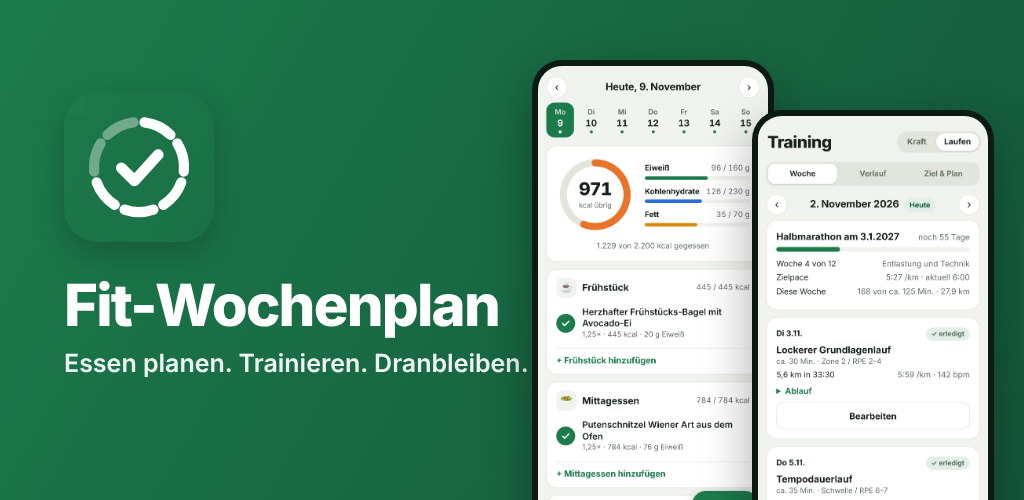
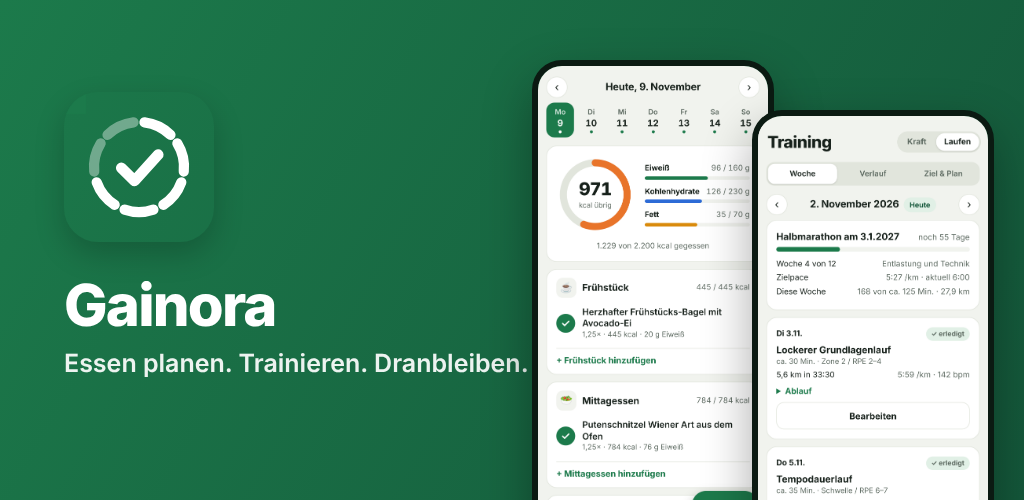
App heißt jetzt Gainora; Anbieterangaben für Impressum und Datenschutz
- Name in App, Manifest, Store-Texten und Feature-Grafik
- App-Kennung de.preikschas.gainora
- Impressum und Datenschutz mit Anbieterangaben

Claude-Session: https://claude.ai/code/session_01XA2jUVCa9GARMxRAzQ4fZa

Changed region(s): [[0.0625, 0.57, 0.5, 0.69]]

diff --git a/essensplan.html b/essensplan.html
@@ -4,7 +4,7 @@
 <meta charset="utf-8">
 <meta name="viewport" content="width=device-width,initial-scale=1,viewport-fit=cover">
 <meta name="theme-color" content="#1c7a4b">
-<title>Fit-Wochenplan</title>
+<title>Gainora</title>
 <link rel="manifest" href="manifest.json">
 <meta name="mobile-web-app-capable" content="yes">
 <meta name="apple-mobile-web-app-capable" content="yes">
@@ -391,8 +391,8 @@ if(typeof RDB!=="undefined"&&typeof FOODS_NEU!=="undefined")(function(){
 const fitsSlot=(m,s)=>m.c==s||(m.x&&m.x.indexOf(s)>=0);
 const PUBLIC_V="3.3";
 /* Anbieter für Impressum und Datenschutz – vor der Veröffentlichung ausfüllen */
-const ANBIETER={name:"",anschrift:"",mail:""};
-const RECHT={"ds": "<h2>Datenschutzerklärung</h2>\n<p><b>Stand:</b> 9. November 2026</p>\n<h3>1. Verantwortlicher</h3>\n<p>{name}<br>{anschrift}<br>E-Mail: {mail}</p>\n<h3>2. Grundsatz: Deine Daten bleiben auf deinem Gerät</h3>\n<p>Fit-Wochenplan funktioniert ohne Benutzerkonto und ohne eigenen Server. Alles, was du einträgst – Essensplan, Mahlzeiten, Gewicht, Trainings, Läufe, Supplements, Ziele und Einstellungen – wird ausschließlich lokal im Speicher der App auf deinem Gerät abgelegt. Wir erhalten diese Daten nicht und können sie nicht einsehen.</p>\n<p>Die App enthält keine Werbung, keine Analyse- oder Tracking-Werkzeuge und gibt keine Daten zu Werbezwecken weiter.</p>\n<p>Angaben wie Körpergewicht, Ernährung und Trainingsdaten können Gesundheitsdaten sein. Sie werden nur auf deinem Gerät verarbeitet, um dir die Funktionen der App bereitzustellen.</p>\n<h3>3. Funktionen mit Internetverbindung</h3>\n<p>Nur die folgenden Funktionen nehmen Verbindung zu Diensten Dritter auf, und zwar nur, wenn du sie selbst auslöst:</p>\n<p><b>Foto-Analyse (optional):</b> Wenn du unter „Foto-Analyse“ einen eigenen Schlüssel für die Google Gemini API hinterlegst und ein Foto analysieren lässt, wird das Foto zusammen mit einer Anweisung direkt von deinem Gerät an Google gesendet (Google Ireland Limited, Gordon House, Barrow Street, Dublin 4, Irland; Verarbeitung auch in den USA möglich). Google verarbeitet die Daten nach den Bedingungen, die du mit Google für deinen Schlüssel vereinbart hast. Dein Schlüssel wird nur auf deinem Gerät gespeichert und nicht in Sicherungsdateien übernommen. Rechtsgrundlage ist deine Einwilligung (Art. 6 Abs. 1 lit. a, Art. 9 Abs. 2 lit. a DSGVO), die du jederzeit widerrufen kannst, indem du den Schlüssel löschst.</p>\n<p><b>Barcode-Suche:</b> Wenn du einen Barcode scannst oder eingibst, wird die Produktnummer an Open Food Facts gesendet (Open Food Facts, 21 rue des Iles, 94100 Saint-Maur-des-Fossés, Frankreich), um Nährwerte abzurufen. Dabei wird technisch bedingt deine IP-Adresse übertragen. Rechtsgrundlage ist Art. 6 Abs. 1 lit. b DSGVO (Bereitstellung der von dir gewünschten Funktion).</p>\n<p><b>Webversion:</b> Wenn du die App im Browser nutzt, wird sie über GitHub Pages ausgeliefert (GitHub B.V., Niederlande / GitHub, Inc., USA). Dabei verarbeitet GitHub technisch notwendige Zugriffsdaten wie die IP-Adresse. Rechtsgrundlage ist Art. 6 Abs. 1 lit. f DSGVO (sichere Bereitstellung der Webseite).</p>\n<h3>4. Berechtigungen</h3>\n<p><b>Kamera:</b> nur zum Scannen von Barcodes und für Fotos zur Foto-Analyse, jeweils erst wenn du die Funktion startest. <b>Benachrichtigungen:</b> nur für die lokale Erinnerung am Ende einer Satzpause; sie werden auf dem Gerät erzeugt, nicht über einen Server.</p>\n<h3>5. Sicherungen und Diagnoseprotokoll</h3>\n<p>Sicherungsdateien und das Diagnoseprotokoll entstehen nur, wenn du sie selbst erstellst. Wohin du sie speicherst oder sendest, entscheidest du. Das Diagnoseprotokoll enthält technische Angaben zur Fehlersuche (z. B. App-Version, Gerätetyp, Fehlermeldungen) und bleibt auf deinem Gerät, bis du es teilst.</p>\n<h3>6. Speicherdauer und Löschung</h3>\n<p>Die Daten bleiben gespeichert, bis du sie in der App unter „Daten & Sicherung“ löschst oder die App deinstallierst.</p>\n<h3>7. Deine Rechte</h3>\n<p>Du hast das Recht auf Auskunft, Berichtigung, Löschung, Einschränkung der Verarbeitung, Datenübertragbarkeit sowie Widerspruch und Widerruf erteilter Einwilligungen (Art. 15–21 DSGVO). Da wir deine App-Daten nicht speichern, kannst du die meisten Rechte direkt in der App ausüben. Außerdem kannst du dich bei einer Datenschutz-Aufsichtsbehörde beschweren, zum Beispiel bei der Behörde deines Wohnorts.</p>\n<h3>8. Kinder</h3>\n<p>Die App richtet sich nicht an Kinder unter 16 Jahren.</p>\n<h3>9. Änderungen</h3>\n<p>Wir passen diese Erklärung an, wenn sich die App oder die Rechtslage ändert. Es gilt die jeweils in der App veröffentlichte Fassung.</p>", "imp": "<h2>Impressum</h2>\n<p>Angaben gemäß § 5 Digitale-Dienste-Gesetz (DDG)</p>\n<p>{name}<br>{anschrift}</p>\n<p><b>Kontakt:</b> E-Mail: {mail}</p>\n<p><b>Verantwortlich für den Inhalt:</b> {name}, Anschrift wie oben</p>", "ges": "<h2>Gesundheitshinweis</h2>\n<p>Fit-Wochenplan ist ein Hilfsmittel zur Planung von Ernährung und Training. Die App ist kein Medizinprodukt und ersetzt keine ärztliche, ernährungsmedizinische oder sportmedizinische Beratung.</p>\n<p>Kalorienbedarf, Nährwerte, Portionsgrößen, Supplementmengen, Trainings- und Laufpläne sind Richtwerte und Vorlagen. Sie berücksichtigen keine Erkrankungen, Medikamente, Schwangerschaft oder individuelle Belastbarkeit. Die Bedarfsberechnung ist eine Schätzung (Mifflin-St.-Jeor-Formel). Foto-Analysen und Produktdaten aus Open Food Facts können ungenau sein.</p>\n<p>Sprich vor einer deutlichen Ernährungsumstellung, vor Nahrungsergänzungsmitteln und vor dem Beginn eines intensiven Trainings mit einer Ärztin oder einem Arzt, besonders bei Vorerkrankungen. Brich das Training bei Schmerzen, Schwindel oder Atemnot ab.</p>", "liz": "<h2>Quellen und Lizenzen</h2>\n<p><b>Produktdaten:</b> Barcode-Suche mit Daten von <a href=\"https://world.openfoodfacts.org\">Open Food Facts</a>. Die Datenbank steht unter der Open Database License (ODbL), die Inhalte unter der Database Contents License.</p>\n<p><b>Foto-Analyse:</b> Google Gemini API, nur mit deinem eigenen Schlüssel.</p>\n<p><b>Rezepte, Lebensmittel, Übungen, Trainings- und Laufpläne:</b> eigene Zusammenstellung für Fit-Wochenplan. Die Nährwerte sind aus den Zutaten berechnet.</p>\n<p><b>Spiele:</b> „Blocksturz“ und die übrigen Pausenspiele sind eigene Umsetzungen.</p>"};
+const ANBIETER={name:"Luca Preikschas",anschrift:"Herzog-Wilhelm-Str. 32, 94572 Schöfweg",mail:"gainora.app@gmail.com"};
+const RECHT={"ds": "<h2>Datenschutzerklärung</h2>\n<p><b>Stand:</b> 9. November 2026</p>\n<h3>1. Verantwortlicher</h3>\n<p>{name}<br>{anschrift}<br>E-Mail: {mail}</p>\n<h3>2. Grundsatz: Deine Daten bleiben auf deinem Gerät</h3>\n<p>Gainora funktioniert ohne Benutzerkonto und ohne eigenen Server. Alles, was du einträgst – Essensplan, Mahlzeiten, Gewicht, Trainings, Läufe, Supplements, Ziele und Einstellungen – wird ausschließlich lokal im Speicher der App auf deinem Gerät abgelegt. Wir erhalten diese Daten nicht und können sie nicht einsehen.</p>\n<p>Die App enthält keine Werbung, keine Analyse- oder Tracking-Werkzeuge und gibt keine Daten zu Werbezwecken weiter.</p>\n<p>Angaben wie Körpergewicht, Ernährung und Trainingsdaten können Gesundheitsdaten sein. Sie werden nur auf deinem Gerät verarbeitet, um dir die Funktionen der App bereitzustellen.</p>\n<h3>3. Funktionen mit Internetverbindung</h3>\n<p>Nur die folgenden Funktionen nehmen Verbindung zu Diensten Dritter auf, und zwar nur, wenn du sie selbst auslöst:</p>\n<p><b>Foto-Analyse (optional):</b> Wenn du unter „Foto-Analyse“ einen eigenen Schlüssel für die Google Gemini API hinterlegst und ein Foto analysieren lässt, wird das Foto zusammen mit einer Anweisung direkt von deinem Gerät an Google gesendet (Google Ireland Limited, Gordon House, Barrow Street, Dublin 4, Irland; Verarbeitung auch in den USA möglich). Google verarbeitet die Daten nach den Bedingungen, die du mit Google für deinen Schlüssel vereinbart hast. Dein Schlüssel wird nur auf deinem Gerät gespeichert und nicht in Sicherungsdateien übernommen. Rechtsgrundlage ist deine Einwilligung (Art. 6 Abs. 1 lit. a, Art. 9 Abs. 2 lit. a DSGVO), die du jederzeit widerrufen kannst, indem du den Schlüssel löschst.</p>\n<p><b>Barcode-Suche:</b> Wenn du einen Barcode scannst oder eingibst, wird die Produktnummer an Open Food Facts gesendet (Open Food Facts, 21 rue des Iles, 94100 Saint-Maur-des-Fossés, Frankreich), um Nährwerte abzurufen. Dabei wird technisch bedingt deine IP-Adresse übertragen. Rechtsgrundlage ist Art. 6 Abs. 1 lit. b DSGVO (Bereitstellung der von dir gewünschten Funktion).</p>\n<p><b>Webversion:</b> Wenn du die App im Browser nutzt, wird sie über GitHub Pages ausgeliefert (GitHub B.V., Niederlande / GitHub, Inc., USA). Dabei verarbeitet GitHub technisch notwendige Zugriffsdaten wie die IP-Adresse. Rechtsgrundlage ist Art. 6 Abs. 1 lit. f DSGVO (sichere Bereitstellung der Webseite).</p>\n<h3>4. Berechtigungen</h3>\n<p><b>Kamera:</b> nur zum Scannen von Barcodes und für Fotos zur Foto-Analyse, jeweils erst wenn du die Funktion startest. <b>Benachrichtigungen:</b> nur für die lokale Erinnerung am Ende einer Satzpause; sie werden auf dem Gerät erzeugt, nicht über einen Server.</p>\n<h3>5. Sicherungen und Diagnoseprotokoll</h3>\n<p>Sicherungsdateien und das Diagnoseprotokoll entstehen nur, wenn du sie selbst erstellst. Wohin du sie speicherst oder sendest, entscheidest du. Das Diagnoseprotokoll enthält technische Angaben zur Fehlersuche (z. B. App-Version, Gerätetyp, Fehlermeldungen) und bleibt auf deinem Gerät, bis du es teilst.</p>\n<h3>6. Speicherdauer und Löschung</h3>\n<p>Die Daten bleiben gespeichert, bis du sie in der App unter „Daten & Sicherung“ löschst oder die App deinstallierst.</p>\n<h3>7. Deine Rechte</h3>\n<p>Du hast das Recht auf Auskunft, Berichtigung, Löschung, Einschränkung der Verarbeitung, Datenübertragbarkeit sowie Widerspruch und Widerruf erteilter Einwilligungen (Art. 15–21 DSGVO). Da wir deine App-Daten nicht speichern, kannst du die meisten Rechte direkt in der App ausüben. Außerdem kannst du dich bei einer Datenschutz-Aufsichtsbehörde beschweren, zum Beispiel bei der Behörde deines Wohnorts.</p>\n<h3>8. Kinder</h3>\n<p>Die App richtet sich nicht an Kinder unter 16 Jahren.</p>\n<h3>9. Änderungen</h3>\n<p>Wir passen diese Erklärung an, wenn sich die App oder die Rechtslage ändert. Es gilt die jeweils in der App veröffentlichte Fassung.</p>", "imp": "<h2>Impressum</h2>\n<p>Angaben gemäß § 5 Digitale-Dienste-Gesetz (DDG)</p>\n<p>{name}<br>{anschrift}</p>\n<p><b>Kontakt:</b> E-Mail: {mail}</p>\n<p><b>Verantwortlich für den Inhalt:</b> {name}, Anschrift wie oben</p>", "ges": "<h2>Gesundheitshinweis</h2>\n<p>Gainora ist ein Hilfsmittel zur Planung von Ernährung und Training. Die App ist kein Medizinprodukt und ersetzt keine ärztliche, ernährungsmedizinische oder sportmedizinische Beratung.</p>\n<p>Kalorienbedarf, Nährwerte, Portionsgrößen, Supplementmengen, Trainings- und Laufpläne sind Richtwerte und Vorlagen. Sie berücksichtigen keine Erkrankungen, Medikamente, Schwangerschaft oder individuelle Belastbarkeit. Die Bedarfsberechnung ist eine Schätzung (Mifflin-St.-Jeor-Formel). Foto-Analysen und Produktdaten aus Open Food Facts können ungenau sein.</p>\n<p>Sprich vor einer deutlichen Ernährungsumstellung, vor Nahrungsergänzungsmitteln und vor dem Beginn eines intensiven Trainings mit einer Ärztin oder einem Arzt, besonders bei Vorerkrankungen. Brich das Training bei Schmerzen, Schwindel oder Atemnot ab.</p>", "liz": "<h2>Quellen und Lizenzen</h2>\n<p><b>Produktdaten:</b> Barcode-Suche mit Daten von <a href=\"https://world.openfoodfacts.org\">Open Food Facts</a>. Die Datenbank steht unter der Open Database License (ODbL), die Inhalte unter der Database Contents License.</p>\n<p><b>Foto-Analyse:</b> Google Gemini API, nur mit deinem eigenen Schlüssel.</p>\n<p><b>Rezepte, Lebensmittel, Übungen, Trainings- und Laufpläne:</b> eigene Zusammenstellung für Gainora. Die Nährwerte sind aus den Zutaten berechnet.</p>\n<p><b>Spiele:</b> „Blocksturz“ und die übrigen Pausenspiele sind eigene Umsetzungen.</p>"};
 /* Läuft die Seite als installierte App (Capacitor)? */
 const NATIV=!!(window.Capacitor&&window.Capacitor.isNativePlatform&&window.Capacitor.isNativePlatform());
 const PL=n=>NATIV&&window.Capacitor.Plugins?window.Capacitor.Plugins[n]||null:null;
@@ -418,7 +418,7 @@ function logWrap(area,fn){return async function(){
  catch(e){logErr(area,"Ausnahme: "+(e&&e.message||e),{stack:String(e&&e.stack||"").slice(0,500)});throw e}}}
 function logFile(){
  const L=[];
- L.push("Fit-Wochenplan – Diagnosebericht");
+ L.push("Gainora – Diagnosebericht");
  L.push("Erstellt: "+new Date().toISOString());
  L.push("App-Version: "+PUBLIC_V);
  L.push("Benutzeragent: "+navigator.userAgent);
@@ -2384,7 +2384,7 @@ function wipe(was){
  save();logInfo("einstellungen","Daten gelöscht: "+was);render();
 }
 function backupJson(){const daten=Object.assign({},S);delete daten.key; // API-Schlüssel gehört nicht in eine Sicherung
- return JSON.stringify({app:"Fit-Wochenplan",version:PUBLIC_V,stand:new Date().toISOString(),daten},null,1);}
+ return JSON.stringify({app:"Gainora",version:PUBLIC_V,stand:new Date().toISOString(),daten},null,1);}
 async function exportData(){
  const inhalt=backupJson(),name="fitplan-sicherung-"+todayISO()+".json";
  const msg=t=>{const m=document.getElementById("dmsg");if(m)m.textContent=t;};
@@ -2417,7 +2417,7 @@ function importFile(inp){
   try{
    const o=JSON.parse(rd.result);
    const d=o&&o.daten?o.daten:(o&&o.plan!==undefined?o:null);
-   if(!d)throw new Error("Keine Fit-Wochenplan-Daten gefunden.");
+   if(!d)throw new Error("Keine Gainora-Daten gefunden.");
    if(!confirm("Vorhandene Daten überschreiben?"))return;
    const keepKey=S.key;Object.keys(S).forEach(k=>delete S[k]);
    Object.assign(S,DEFAULTS(),d);delete S.key;if(keepKey)S.key=keepKey;
@@ -2434,7 +2434,7 @@ function rechtZeigen(k){sheet(`<div class="recht">${rechtText(k)}</div><button c
 function sRecht(){const li=(k,t,s)=>`<button class="li" onclick="rechtZeigen('${k}')"><span class="t"><b>${t}</b><small>${s}</small></span><span class="chev">›</span></button>`;
  return `<div class="card list">${li("ds","Datenschutzerklärung","Was mit deinen Daten passiert")}${li("imp","Impressum","Anbieter und Kontakt")}${li("ges","Gesundheitshinweis","Wofür die App gedacht ist")}${li("liz","Quellen und Lizenzen","Open Food Facts und mehr")}</div>`;}
 function willkommen(){
- sheet(`<div class="welc"><div class="wl-ic">🥗</div><h3>Willkommen bei Fit-Wochenplan</h3>
+ sheet(`<div class="welc"><div class="wl-ic">🥗</div><h3>Willkommen bei Gainora</h3>
  <div class="wl-pt"><span>📅</span><div><b>Plane deine Woche</b><small>Fast 3.000 Fitness-Rezepte, automatischer Wochenvorschlag und Einkaufsliste.</small></div></div>
  <div class="wl-pt"><span>✅</span><div><b>Hake ab, was du isst</b><small>Kalorien und Makros für jeden Tag, dazu Wasser und Supplements.</small></div></div>
  <div class="wl-pt"><span>🏋</span><div><b>Trainiere nach Plan</b><small>Kraft- und Laufpläne, Pausen-Timer und kleine Spiele für die Satzpause.</small></div></div>

diff --git a/datenschutz.html b/datenschutz.html
@@ -1,13 +1,13 @@
-<!doctype html><html lang="de"><head><meta charset="utf-8"><meta name="viewport" content="width=device-width,initial-scale=1"><title>Datenschutzerklärung – Fit-Wochenplan</title>
+<!doctype html><html lang="de"><head><meta charset="utf-8"><meta name="viewport" content="width=device-width,initial-scale=1"><title>Datenschutzerklärung – Gainora</title>
 <style>:root{--bg:#f1f3ee;--txt:#16201a;--mut:#5d6a61;--brand:#1c7a4b}@media(prefers-color-scheme:dark){:root{--bg:#0d1310;--txt:#eaf1ec;--mut:#8f9e94;--brand:#3ecf86}}
 body{margin:0;background:var(--bg);color:var(--txt);font:16px/1.6 -apple-system,BlinkMacSystemFont,"Segoe UI",Roboto,sans-serif}main{max-width:720px;margin:auto;padding:24px 18px 60px}
 h2{font-size:28px;letter-spacing:-.5px;margin:8px 0 12px}h3{font-size:18px;margin:26px 0 6px}a{color:var(--brand)}nav{font-size:14px;color:var(--mut)}</style></head>
 <body><main><nav><a href="datenschutz.html">Datenschutz</a> · <a href="impressum.html">Impressum</a> · <a href="gesundheitshinweis.html">Gesundheitshinweis</a></nav><h2>Datenschutzerklärung</h2>
 <p><b>Stand:</b> 9. November 2026</p>
 <h3>1. Verantwortlicher</h3>
-<p>[Vorname Nachname]<br>[Straße Hausnummer, PLZ Ort]<br>E-Mail: [E-Mail-Adresse]</p>
+<p>Luca Preikschas<br>Herzog-Wilhelm-Str. 32<br>94572 Schöfweg<br>E-Mail: gainora.app@gmail.com</p>
 <h3>2. Grundsatz: Deine Daten bleiben auf deinem Gerät</h3>
-<p>Fit-Wochenplan funktioniert ohne Benutzerkonto und ohne eigenen Server. Alles, was du einträgst – Essensplan, Mahlzeiten, Gewicht, Trainings, Läufe, Supplements, Ziele und Einstellungen – wird ausschließlich lokal im Speicher der App auf deinem Gerät abgelegt. Wir erhalten diese Daten nicht und können sie nicht einsehen.</p>
+<p>Gainora funktioniert ohne Benutzerkonto und ohne eigenen Server. Alles, was du einträgst – Essensplan, Mahlzeiten, Gewicht, Trainings, Läufe, Supplements, Ziele und Einstellungen – wird ausschließlich lokal im Speicher der App auf deinem Gerät abgelegt. Wir erhalten diese Daten nicht und können sie nicht einsehen.</p>
 <p>Die App enthält keine Werbung, keine Analyse- oder Tracking-Werkzeuge und gibt keine Daten zu Werbezwecken weiter.</p>
 <p>Angaben wie Körpergewicht, Ernährung und Trainingsdaten können Gesundheitsdaten sein. Sie werden nur auf deinem Gerät verarbeitet, um dir die Funktionen der App bereitzustellen.</p>
 <h3>3. Funktionen mit Internetverbindung</h3>

diff --git a/gesundheitshinweis.html b/gesundheitshinweis.html
@@ -1,8 +1,8 @@
-<!doctype html><html lang="de"><head><meta charset="utf-8"><meta name="viewport" content="width=device-width,initial-scale=1"><title>Gesundheitshinweis – Fit-Wochenplan</title>
+<!doctype html><html lang="de"><head><meta charset="utf-8"><meta name="viewport" content="width=device-width,initial-scale=1"><title>Gesundheitshinweis – Gainora</title>
 <style>:root{--bg:#f1f3ee;--txt:#16201a;--mut:#5d6a61;--brand:#1c7a4b}@media(prefers-color-scheme:dark){:root{--bg:#0d1310;--txt:#eaf1ec;--mut:#8f9e94;--brand:#3ecf86}}
 body{margin:0;background:var(--bg);color:var(--txt);font:16px/1.6 -apple-system,BlinkMacSystemFont,"Segoe UI",Roboto,sans-serif}main{max-width:720px;margin:auto;padding:24px 18px 60px}
 h2{font-size:28px;letter-spacing:-.5px;margin:8px 0 12px}h3{font-size:18px;margin:26px 0 6px}a{color:var(--brand)}nav{font-size:14px;color:var(--mut)}</style></head>
 <body><main><nav><a href="datenschutz.html">Datenschutz</a> · <a href="impressum.html">Impressum</a> · <a href="gesundheitshinweis.html">Gesundheitshinweis</a></nav><h2>Gesundheitshinweis</h2>
-<p>Fit-Wochenplan ist ein Hilfsmittel zur Planung von Ernährung und Training. Die App ist kein Medizinprodukt und ersetzt keine ärztliche, ernährungsmedizinische oder sportmedizinische Beratung.</p>
+<p>Gainora ist ein Hilfsmittel zur Planung von Ernährung und Training. Die App ist kein Medizinprodukt und ersetzt keine ärztliche, ernährungsmedizinische oder sportmedizinische Beratung.</p>
 <p>Kalorienbedarf, Nährwerte, Portionsgrößen, Supplementmengen, Trainings- und Laufpläne sind Richtwerte und Vorlagen. Sie berücksichtigen keine Erkrankungen, Medikamente, Schwangerschaft oder individuelle Belastbarkeit. Die Bedarfsberechnung ist eine Schätzung (Mifflin-St.-Jeor-Formel). Foto-Analysen und Produktdaten aus Open Food Facts können ungenau sein.</p>
 <p>Sprich vor einer deutlichen Ernährungsumstellung, vor Nahrungsergänzungsmitteln und vor dem Beginn eines intensiven Trainings mit einer Ärztin oder einem Arzt, besonders bei Vorerkrankungen. Brich das Training bei Schmerzen, Schwindel oder Atemnot ab.</p></main></body></html>

diff --git a/impressum.html b/impressum.html
@@ -1,9 +1,9 @@
-<!doctype html><html lang="de"><head><meta charset="utf-8"><meta name="viewport" content="width=device-width,initial-scale=1"><title>Impressum – Fit-Wochenplan</title>
+<!doctype html><html lang="de"><head><meta charset="utf-8"><meta name="viewport" content="width=device-width,initial-scale=1"><title>Impressum – Gainora</title>
 <style>:root{--bg:#f1f3ee;--txt:#16201a;--mut:#5d6a61;--brand:#1c7a4b}@media(prefers-color-scheme:dark){:root{--bg:#0d1310;--txt:#eaf1ec;--mut:#8f9e94;--brand:#3ecf86}}
 body{margin:0;background:var(--bg);color:var(--txt);font:16px/1.6 -apple-system,BlinkMacSystemFont,"Segoe UI",Roboto,sans-serif}main{max-width:720px;margin:auto;padding:24px 18px 60px}
 h2{font-size:28px;letter-spacing:-.5px;margin:8px 0 12px}h3{font-size:18px;margin:26px 0 6px}a{color:var(--brand)}nav{font-size:14px;color:var(--mut)}</style></head>
 <body><main><nav><a href="datenschutz.html">Datenschutz</a> · <a href="impressum.html">Impressum</a> · <a href="gesundheitshinweis.html">Gesundheitshinweis</a></nav><h2>Impressum</h2>
 <p>Angaben gemäß § 5 Digitale-Dienste-Gesetz (DDG)</p>
-<p>[Vorname Nachname]<br>[Straße Hausnummer, PLZ Ort]</p>
-<p><b>Kontakt:</b> E-Mail: [E-Mail-Adresse]</p>
-<p><b>Verantwortlich für den Inhalt:</b> [Vorname Nachname], Anschrift wie oben</p></main></body></html>
+<p>Luca Preikschas<br>Herzog-Wilhelm-Str. 32<br>94572 Schöfweg</p>
+<p><b>Kontakt:</b> E-Mail: gainora.app@gmail.com</p>
+<p><b>Verantwortlich für den Inhalt:</b> Luca Preikschas, Anschrift wie oben</p></main></body></html>

diff --git a/index.html b/index.html
@@ -3,7 +3,7 @@
 <head>
 <meta charset="utf-8">
 <meta http-equiv="refresh" content="0; url=essensplan.html">
-<title>Fit-Wochenplan</title>
+<title>Gainora</title>
 </head>
 <body><p>Weiterleitung zur <a href="essensplan.html">App</a>.</p></body>
 </html>

diff --git a/store/STORE-ANLEITUNG.md b/store/STORE-ANLEITUNG.md
@@ -1,4 +1,4 @@
-# Fit-Wochenplan in Play Store und App Store bringen
+# Gainora in Play Store und App Store bringen
 
 Diese Anleitung passt zum Ordner `app/` (Capacitor 8) und den drei Abläufen unter **Actions** in deinem GitHub-Repo. Du brauchst keinen Mac und kein Android Studio: Gebaut wird in der Cloud bei GitHub.
 
@@ -9,12 +9,11 @@ Diese Anleitung passt zum Ordner `app/` (Capacitor 8) und den drei Abläufen unt
 - Spielnamen geändert: „Tetris“ → **Blocksturz**, „Memory“ → **Farbfolge** (beides geschützte Marken).
 - Neues App-Icon, Startbild, Feature-Grafik, Store-Screenshots, Store-Texte, Datenschutz-Antworten.
 
-## Schritt 1 – Angaben eintragen (10 Minuten)
-1. In `essensplan.html` ganz oben `ANBIETER` ausfüllen: Name, ladungsfähige Anschrift, E-Mail. Ohne diese Angaben zeigt die App rote Platzhalter.
-2. Dieselben Angaben in `datenschutz.html` und `impressum.html` ersetzen (Platzhalter in eckigen Klammern).
-3. In `app/capacitor.config.json` die `appId` festlegen, z. B. `de.deinname.fitwochenplan`. **Danach nie mehr ändern** – sie ist die dauerhafte Kennung in beiden Stores.
-4. Alles ins Repo hochladen (Ordner `app/`, `.github/`, `store/` und die Web-Dateien).
-5. Prüfen, ob `https://DEIN-NAME.github.io/DEIN-REPO/datenschutz.html` erreichbar ist – diese Adresse brauchen beide Stores.
+## Schritt 1 – Angaben (erledigt)
+- Anbieter in App und Webseiten: Luca Preikschas, Herzog-Wilhelm-Str. 32, 94572 Schöfweg, gainora.app@gmail.com
+- App-Name: **Gainora**
+- App-Kennung (Bundle-ID / Paketname): `de.preikschas.gainora` – **nach der ersten Veröffentlichung nie mehr ändern**
+- Datenschutz-Adresse für beide Stores: `https://luggalugi-jpg.github.io/fitplan/datenschutz.html` (nach dem Hochladen prüfen, ob sie erreichbar ist)
 
 ## Schritt 2 – Android (Google Play)
 1. **Entwicklerkonto** anlegen: play.google.com/console, einmalig 25 US-Dollar, Identitätsprüfung mit Ausweis.
@@ -42,6 +41,6 @@ Diese Anleitung passt zum Ordner `app/` (Capacitor 8) und den drei Abläufen unt
 - Dunkelmodus, große Schrift, iPhone mit Notch / Dynamic Island, kleines Android-Gerät.
 
 ## Bekannte Punkte, die du entscheiden musst
-- **Name**: Prüfe vor dem Anlegen, ob „Fit-Wochenplan“ im Store frei ist, und recherchiere beim DPMA/EUIPO nach Markenkonflikten.
+- **Name**: Eine Websuche nach „Gainora“ ergab keine App und keine Marke mit diesem Namen (Stand 9.11.2026). Vor dem Anlegen trotzdem selbst prüfen: Suche in Play Store und App Store, DPMAregister (Klassen 9, 41, 44) und TMview/EUIPO. Wer den Namen dauerhaft absichern will, kann ihn beim DPMA als Marke anmelden (ab 290 €).
 - **Händler-Status (EU)**: Beide Stores fragen, ob du als Händler (Trader) auftrittst. Wer Geld verdient oder gewerblich handelt, muss Adresse, Telefon und E-Mail öffentlich im Store zeigen. Für eine kostenlose Hobby-App ohne Einnahmen kommt meist „kein Händler“ in Frage – im Zweifel rechtlich beraten lassen.
 - **Foto-Analyse mit eigenem Schlüssel**: Funktioniert, ist aber für normale Nutzer umständlich. Später wäre ein eigener kleiner Server mit deinem Schlüssel möglich (dann ändern sich Datenschutz und Kosten).

diff --git a/store/texte-de.md b/store/texte-de.md
@@ -2,16 +2,16 @@
 
 Zum Kopieren in Play Console und App Store Connect. In Klammern die Höchstlänge, dahinter die tatsächliche Länge.
 
-## Play: App-Name (max. 30) – 29 Zeichen
+## Play: App-Name (max. 30) – 30 Zeichen
 
 ```
-Fit-Wochenplan: Essen & Sport
+Gainora: Essensplan & Training
 ```
 
-## Apple: Name (max. 30) – 14 Zeichen
+## Apple: Name (max. 30) – 7 Zeichen
 
 ```
-Fit-Wochenplan
+Gainora
 ```
 
 ## Apple: Untertitel (max. 30) – 28 Zeichen
@@ -41,7 +41,7 @@ Kalorien,Makros,Rezepte,Diät,Abnehmen,Muskelaufbau,Eiweiß,Krafttraining,Halbma
 ## Beschreibung (Play max. 4000, Apple max. 4000) – 1811 Zeichen
 
 ```
-Fit-Wochenplan bringt Ernährung und Training in einen Plan – übersichtlich, offline und ohne Benutzerkonto.
+Gainora bringt Ernährung und Training in einen Plan – übersichtlich, offline und ohne Benutzerkonto.
 
 ESSEN PLANEN
 • Fast 3.000 Fitness-Rezepte mit Nährwerten, Zutaten und Schritt-für-Schritt-Zubereitung
@@ -75,7 +75,7 @@ PAUSENSPIELE
 DEINE DATEN BLEIBEN BEI DIR
 Kein Konto, keine Werbung, kein Tracking. Alle Einträge werden nur auf deinem Gerät gespeichert. Sicherungen erstellst du selbst als Datei.
 
-Hinweis: Fit-Wochenplan ersetzt keine ärztliche oder ernährungsmedizinische Beratung. Nährwerte und Pläne sind Richtwerte.
+Hinweis: Gainora ersetzt keine ärztliche oder ernährungsmedizinische Beratung. Nährwerte und Pläne sind Richtwerte.
 ```
 
 ## Neuigkeiten dieser Version – 95 Zeichen
@@ -92,8 +92,8 @@ Erste Version im Store: Wochenplan mit fast 3.000 Rezepten, Kraft- und Laufplän
 | Zweitkategorie (Apple) | Essen und Trinken |
 | Preis | Kostenlos (Empfehlung für den Start) |
 | Altersfreigabe | Fragebogen ehrlich ausfüllen: keine Gewalt, keine Glücksspiele, keine Nutzerinhalte, keine Käufe. Ergebnis voraussichtlich Apple 4+ und IARC/USK ab 0 Jahren. |
-| Datenschutz-URL | `https://DEIN-NAME.github.io/DEIN-REPO/datenschutz.html` |
-| Support-/Kontakt-URL | `https://DEIN-NAME.github.io/DEIN-REPO/impressum.html` |
-| Kontakt-E-Mail | deine Support-Adresse |
+| Datenschutz-URL | `https://luggalugi-jpg.github.io/fitplan/datenschutz.html` |
+| Support-/Kontakt-URL | `https://luggalugi-jpg.github.io/fitplan/impressum.html` |
+| Kontakt-E-Mail | gainora.app@gmail.com |
 | Werbung | Nein |
 | App-Zugriff für Prüfer | Kein Login nötig. Hinweis an Prüfer: „Die Foto-Analyse ist optional und braucht einen eigenen Google-Gemini-Schlüssel. Alle anderen Funktionen sind ohne Anmeldung nutzbar.“ |
